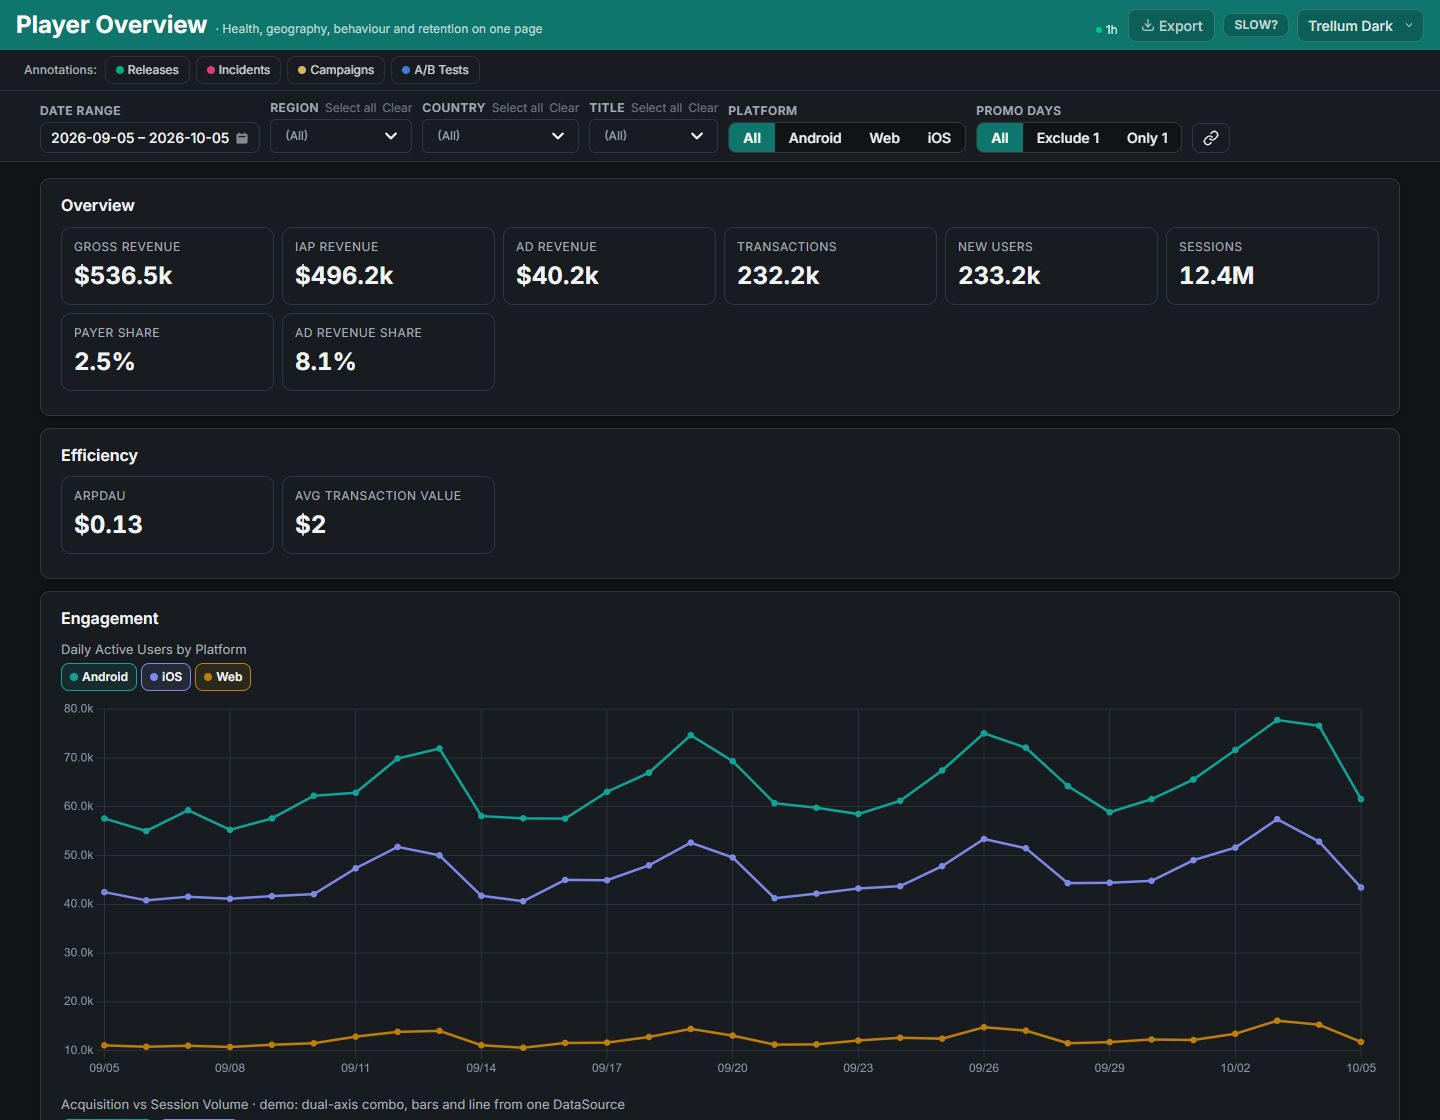
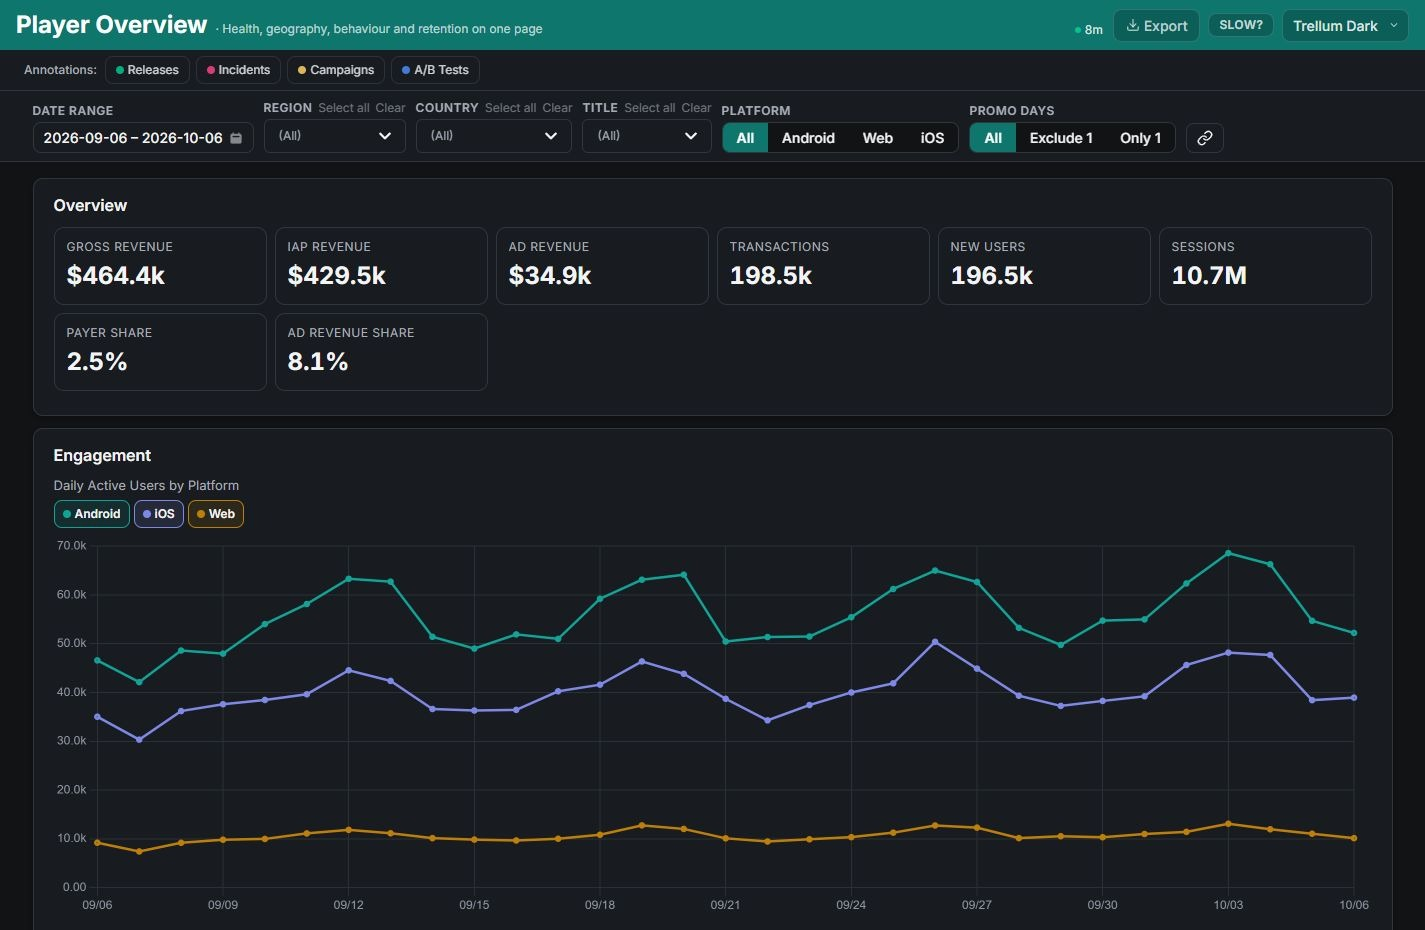
Polish demo report presentation

diff --git a/trellum/demo/reports/player-overview/generator.py b/trellum/demo/reports/player-overview/generator.py
@@ -108,6 +108,23 @@ class PlayerOverviewReport(BaseReport):
             ], dataset_id="main"),
         ])
 
+        # ── Engagement ───────────────────────────────────────────────
+        ctx.add_section("Engagement", [
+            LineChart(df, x="event_date", y="dau",
+                      stack_by="platform",
+                      title="Daily Active Users by Platform",
+                      dataset_id="main", y_format="number"),
+            ComboChart(df, x="event_date",
+                       bar_cols=["new_users"],
+                       line_cols=["sessions"],
+                       bar_labels=["New Users"],
+                       line_labels=["Sessions"],
+                       bar_format="number", line_format="number",
+                       title="Acquisition vs Session Volume · demo: dual-axis "
+                             "combo, bars and line from one DataSource",
+                       dataset_id="main"),
+        ])
+
         # ── Efficiency ───────────────────────────────────────────────
         # Claimed · demo: arpdau and avg_transaction_value are currency
         # RATIOS, which metrics.yaml deliberately defines as descriptive
@@ -126,23 +143,6 @@ class PlayerOverviewReport(BaseReport):
                 {"metric": "arpdau", "value": round(_arpdau, 4)},
                 {"metric": "avg_transaction_value", "value": round(_avg_txn, 2)},
             ]),
-        ])
-
-        # ── Engagement ───────────────────────────────────────────────
-        ctx.add_section("Engagement", [
-            LineChart(df, x="event_date", y="dau",
-                      stack_by="platform",
-                      title="Daily Active Users by Platform",
-                      dataset_id="main", y_format="number"),
-            ComboChart(df, x="event_date",
-                       bar_cols=["new_users"],
-                       line_cols=["sessions"],
-                       bar_labels=["New Users"],
-                       line_labels=["Sessions"],
-                       bar_format="number", line_format="number",
-                       title="Acquisition vs Session Volume · demo: dual-axis "
-                             "combo, bars and line from one DataSource",
-                       dataset_id="main"),
         ])
 
         # ── Revenue ──────────────────────────────────────────────────
@@ -261,8 +261,8 @@ class PlayerOverviewReport(BaseReport):
                                "denominator": "cohort_size",
                                "label": "Retention"}],
                       stack_by="day_label",
-                      title="Retention by Day Offset · demo: a year of "
-                            "cohorts, chunked -- newest months load first",
+                      title="Retention by Day Offset · demo: cohort history "
+                            "is chunked -- newest months load first",
                       y_format="percent", dataset_id="cohorts"),
             # normalize="row": D1 retains an order of magnitude more players
             # than D30, so on a global scale the D30 row is uniformly cold and

diff --git a/trellum/demo/reports/store-health/generator.py b/trellum/demo/reports/store-health/generator.py
@@ -72,7 +72,8 @@ class StoreHealthReport(BaseReport):
 
         # ── What changed ─────────────────────────────────────────────
         # Static delta cards for two fixed windows (the date filter must not
-        # move a card that names its own period), then the live headline row.
+        # move a card that names its own period). The trend follows; the
+        # live headline row stays below it for readers who need exact totals.
         current, prior = self._split_periods(df, ctx.today)
         ctx.add_section(f"Last {_PERIOD_DAYS} Days vs Prior", [
             Grid([
@@ -84,6 +85,23 @@ class StoreHealthReport(BaseReport):
                 self._delta_card("Refunded", current["refunded"].sum(),
                                  prior["refunded"].sum(), "currency"),
             ], columns=4, card=False),
+        ])
+
+        # ── The trend, with the sale annotated ───────────────────────
+        ctx.add_section("Daily Trend", [
+            LineChart(df, x="event_date", y=["gross_revenue", "kept_margin"],
+                      y_labels=["Revenue", "Kept Margin"],
+                      title="Revenue and Kept Margin by Day · demo: the "
+                            "annotated sale week looks fine on revenue -- "
+                            "only the margin line says what it cost",
+                      y_format="currency", dataset_id="orders"),
+            LineChart(df, x="event_date",
+                      ratios=[{"numerator": "gross_revenue",
+                               "denominator": "orders_n",
+                               "label": "Avg Order Value"}],
+                      title="Average Order Value by Day · demo: live ratios, "
+                            "divided after your filters",
+                      y_format="currency", dataset_id="orders"),
         ])
 
         ctx.add_section("Current Selection", [
@@ -105,23 +123,6 @@ class StoreHealthReport(BaseReport):
                 # AND the highest refund_rate if its orders skew expensive.
                 {"metric": "refund_rate"},
             ], dataset_id="orders"),
-        ])
-
-        # ── The trend, with the sale annotated ───────────────────────
-        ctx.add_section("Daily Trend", [
-            LineChart(df, x="event_date", y=["gross_revenue", "kept_margin"],
-                      y_labels=["Revenue", "Kept Margin"],
-                      title="Revenue and Kept Margin by Day · demo: the "
-                            "annotated sale week looks fine on revenue -- "
-                            "only the margin line says what it cost",
-                      y_format="currency", dataset_id="orders"),
-            LineChart(df, x="event_date",
-                      ratios=[{"numerator": "gross_revenue",
-                               "denominator": "orders_n",
-                               "label": "Avg Order Value"}],
-                      title="Average Order Value by Day · demo: live ratios, "
-                            "divided after your filters",
-                      y_format="currency", dataset_id="orders"),
         ])
 
         # ── Where the money comes from ───────────────────────────────

diff --git a/README.md b/README.md
@@ -37,9 +37,9 @@ Visit the [Trellum website](https://trellum.dev/) for the interactive product
 tour, public demo gallery, and installation guides.
 
 <p align="center">
-  <img src="docs/assets/player-overview.jpg" alt="Player Overview report with KPI cards, filters, and a daily active users chart">
+  <img src="docs/assets/store-health.jpg" alt="Store Health report with comparison KPIs, filters, and revenue and margin trends">
   <br>
-  <sub>Player Overview uses the synthetic dataset included with Trellum.</sub>
+  <sub>Store Health uses the synthetic commerce dataset included with Trellum.</sub>
 </p>
 
 ## What Trellum gives you
@@ -145,9 +145,9 @@ a metric by ID rather than copying its formula, so revenue or retention does
 not quietly acquire a second meaning in another dashboard.
 
 <p align="center">
-  <img src="docs/assets/store-health.jpg" alt="Store Health report with comparison KPIs and revenue and margin trends">
+  <img src="docs/assets/player-overview.jpg" alt="Player Overview report with KPI cards, filters, and a daily active users chart">
   <br>
-  <sub>Store Health is another included report built from fabricated commerce data.</sub>
+  <sub>Player Overview is another included report built from fabricated player data.</sub>
 </p>
 
 ## Connect databases, files, sheets, and APIs

diff --git a/trellum/demo/assistant.md b/trellum/demo/assistant.md
@@ -28,8 +28,9 @@ every built report's datasets, columns and date coverage automatically.
   numbers as if they described the business.
 - The `economy-firehose` dataset is event-grained, not user-grained. Counting
   its rows counts events, not people.
-- Experiment reports (`*-experiment`) carry both a raw and a CUPED-adjusted
-  lift. The report's own default is the one to quote unless asked otherwise.
+- The `experiments` report covers three tests on one page. Read the metric and
+  analysis mode named in each section; checkout and pricing include adjusted
+  estimates, while onboarding is evaluated by Day-1 return.
 
 ## Vocabulary
 
